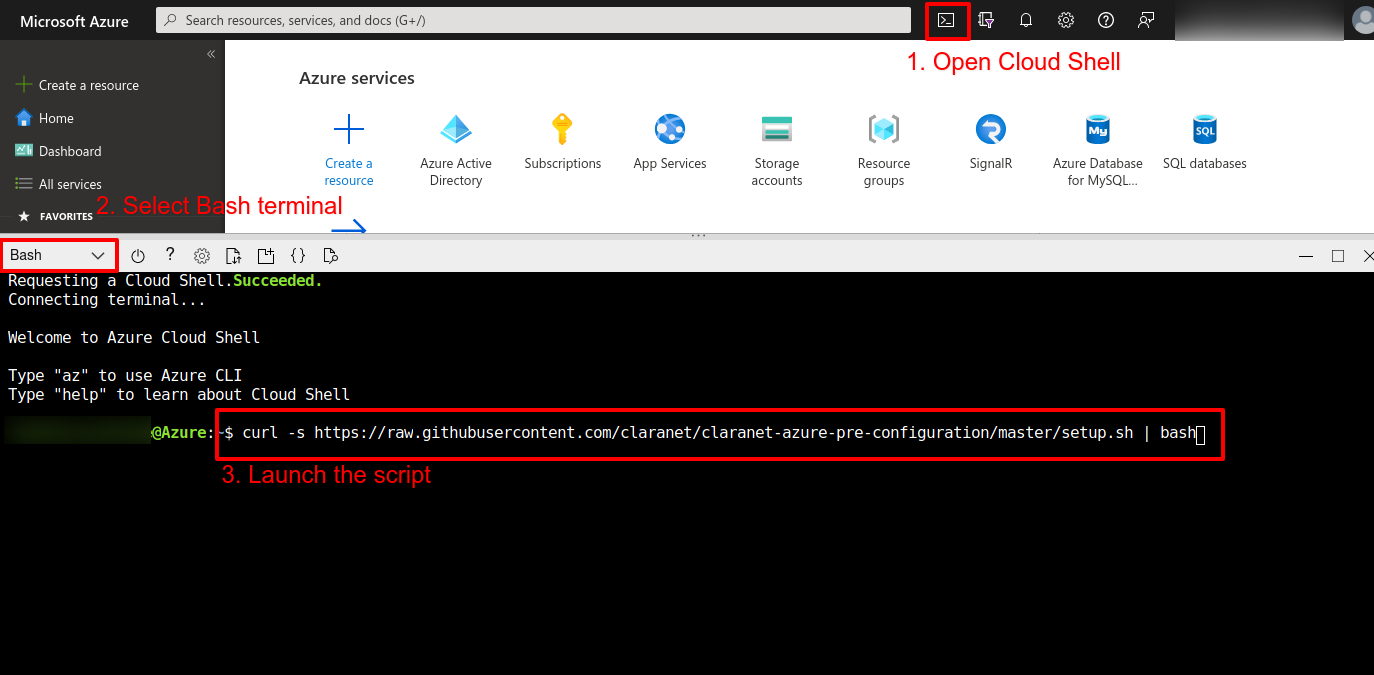
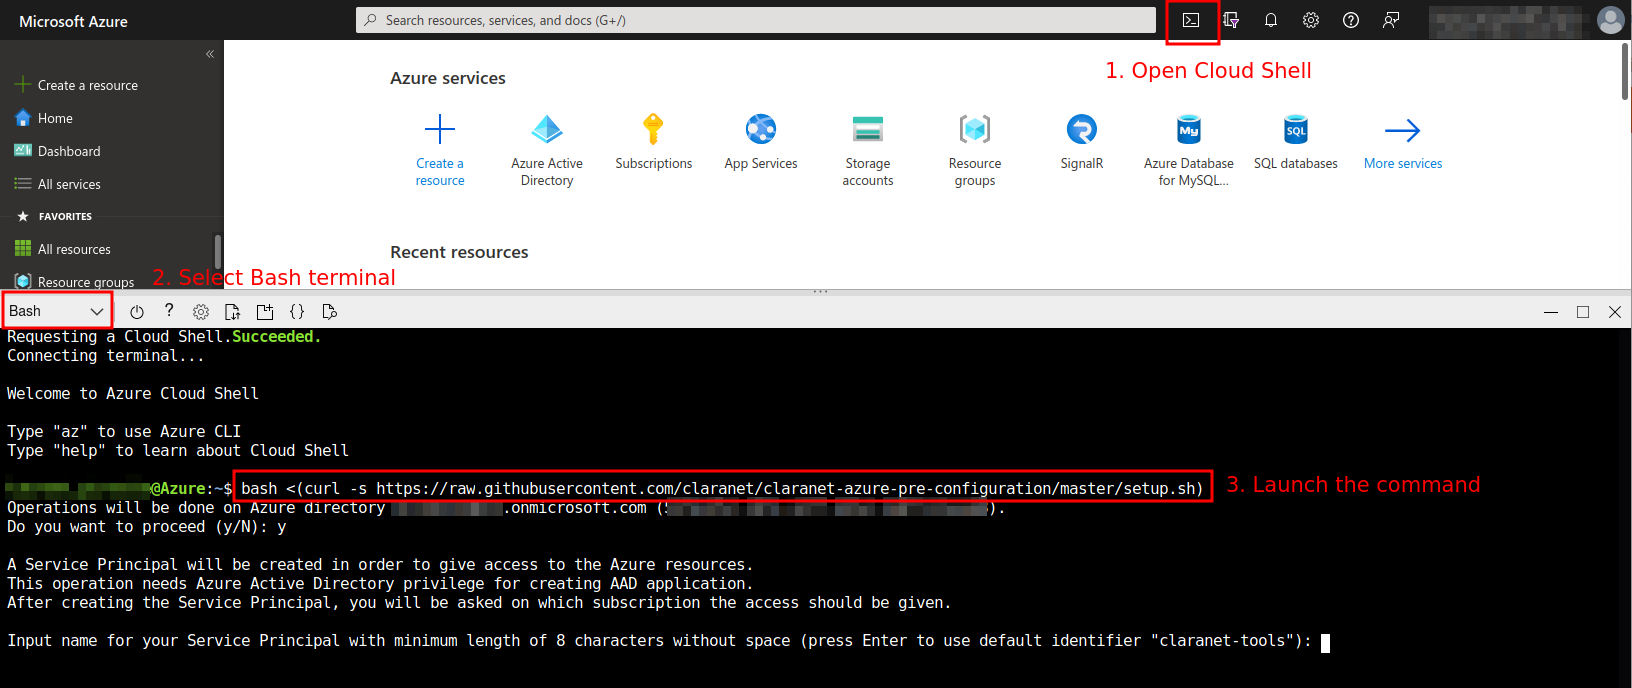
AZ-549: Fix command

diff --git a/README.md b/README.md
@@ -30,7 +30,7 @@ You can find Azure Cloud Shell documentation here: [https://docs.microsoft.com/e
 
 Open Azure Cloud Shell from the Azure portal in Bash mode and launch the following command:
 ```shell
-curl -s https://raw.githubusercontent.com/claranet/claranet-azure-pre-configuration/master/setup.sh | bash
+bash <(curl -s https://raw.githubusercontent.com/claranet/claranet-azure-pre-configuration/master/setup.sh)
 ```
 
 ![Azure Cloud Shell usage](azure-cloud-shell.png "a title")
@@ -41,5 +41,5 @@ Either clone this repository or download the script `setup.sh` locally and launc
 following command locally:
 
 ```shell
-curl -s https://raw.githubusercontent.com/claranet/claranet-azure-pre-configuration/master/setup.sh | bash
+bash <(curl -s https://raw.githubusercontent.com/claranet/claranet-azure-pre-configuration/master/setup.sh)
 ```
